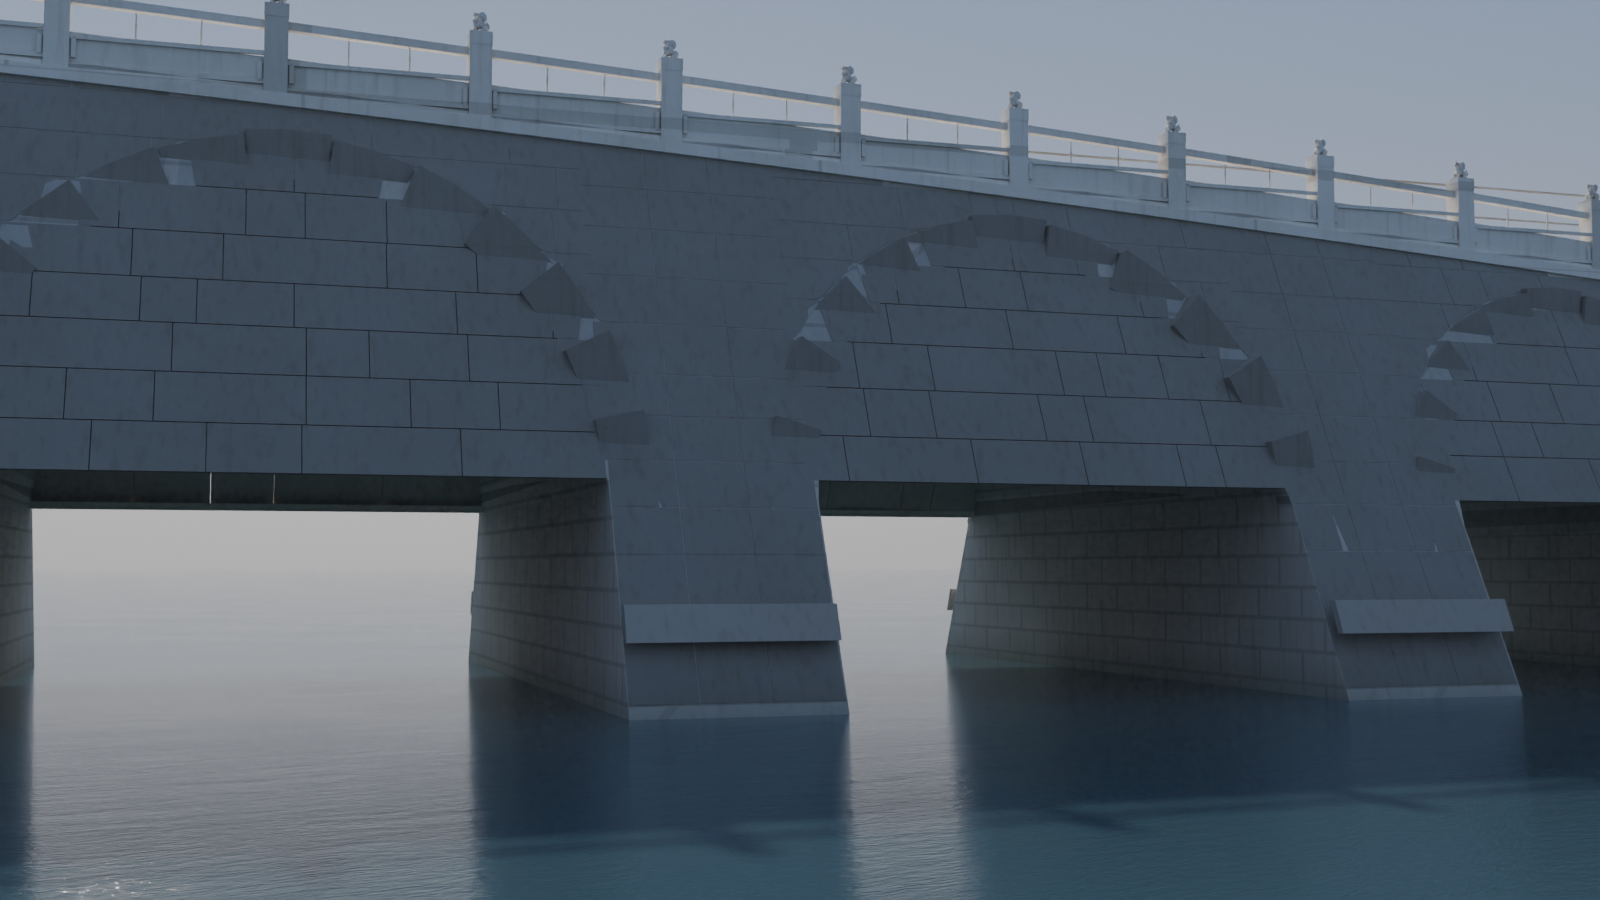
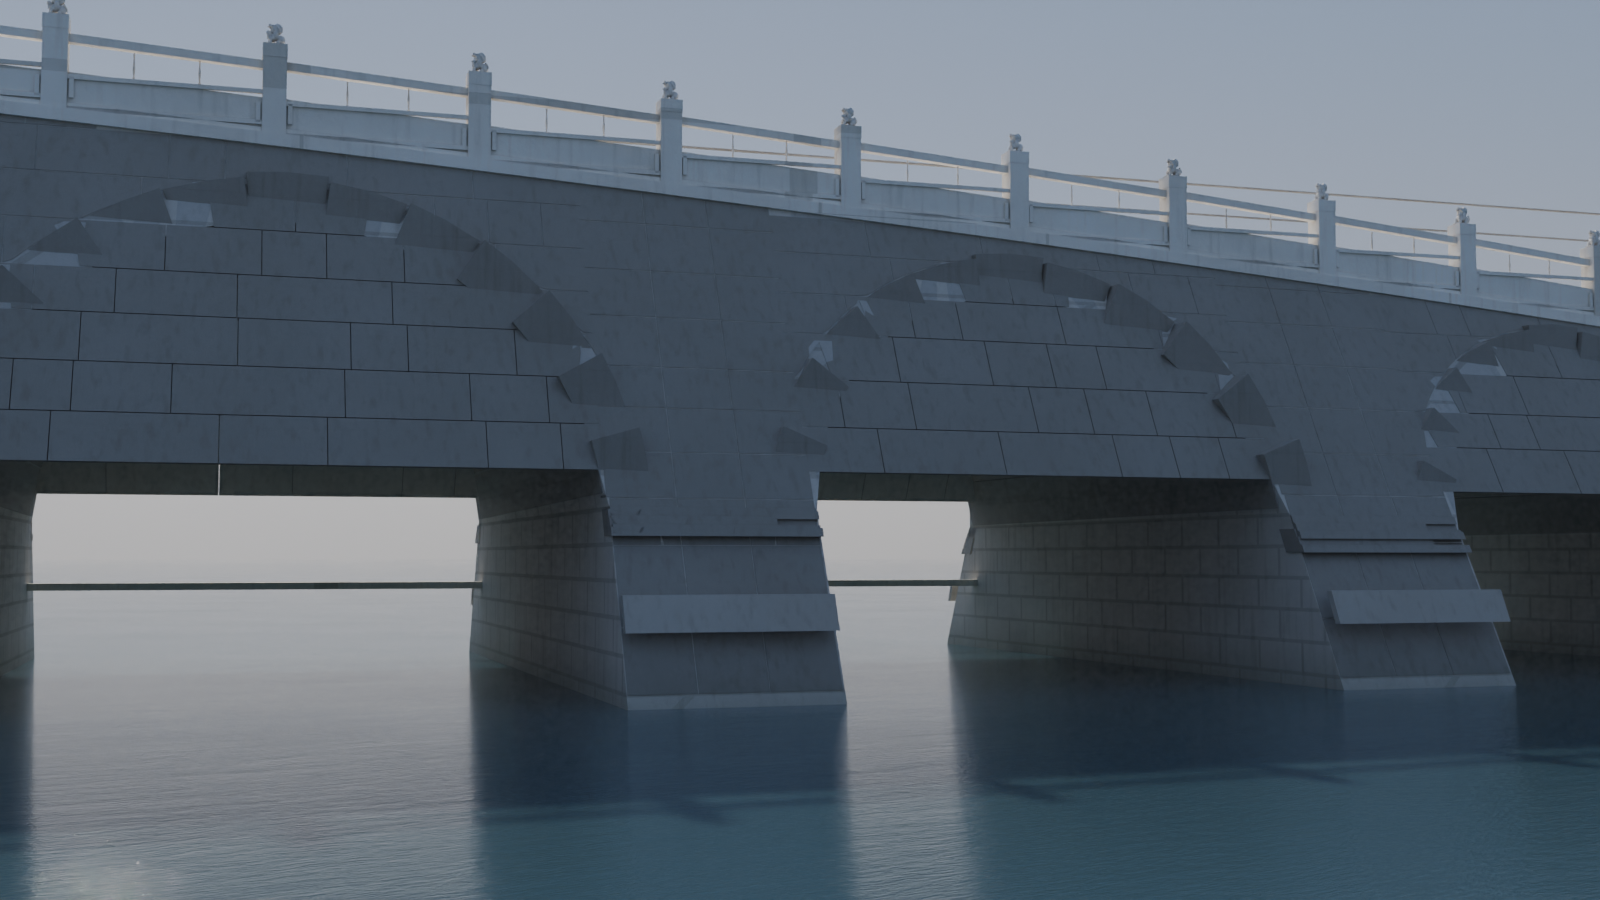
feat(e30): 十审9.12存档+impost v3(十审E2刀)——新高程基准正式取代M12成P0基线; impost两轮收缩(0.30/3->0.17/4分块仍悬浮->0.10/3浅挑厚线脚踢面主导)贴墙成型, 皮内沿墩列线分块错半块与墙石同砌层语法; 末孔E3刀按裁决等M20正射证据不盲调; L2/32/312/64全绿

diff --git a/e30_shikongqiao_video/3d/masonry.py b/e30_shikongqiao_video/3d/masonry.py
@@ -79,9 +79,15 @@ END_ZONE = 72.0            # |x|>72 端区走旧逻辑(桥头 massing 冻结)
 ARC_STEP = 0.10            # 贴拱切块沿弧采样步长 m
 # ── [M19] 起拱线出挑 impost 线脚(冬照+2017-05-20 特写: 每孔拱脚、墩顶之上阶梯
 #    出挑承托层 2-3 阶, 出挑共 ~0.3m, 券环落于其上; M19 brief 拟合目标 高≈0.35) ──
-IMPOST_H = 0.35            # 线脚总高(3 阶, 每阶 ~0.117)
-IMPOST_PROJ = 0.30         # 底阶总出挑(自墙面), 向上每阶递减 0.10
+# [十审E2] GPT: 原 3 阶 0.35/0.30 读成"独立承台牛腿"(出挑深/阶厚/间距大,
+# 远看横向白带)。改: 4 皮逐级微挑(总高 0.28, 底阶出挑 0.17), 且每皮沿墩列线
+# 分块(与墙石同一砌层语法), 不再整幅环带 extrusion。
+# [十审E2b] 0.17/4阶仍读"悬浮板"(踏步深>>踢面高, 底影=缝感)。真照判读:
+# 浅挑厚线脚, 总出挑<=0.10, 3 阶每阶 ~0.10 高 x ~0.033 挑(踢面主导)。
+IMPOST_H = 0.30
+IMPOST_PROJ = 0.10
 IMPOST_STEPS = 3
+IMPOST_BLOCK_W = 1.05      # 皮内分块名义宽(m)
 IMPOST_MIN_Z = 0.02        # 没水阶不建(端孔起拱 0.26 近水, 阶没入水下部分省略)
 
 
@@ -767,12 +773,25 @@ def build_impost(bm):
                 zb0 = max(z0, IMPOST_MIN_Z)
                 if z1 - zb0 < 0.02:
                     continue
-                for side in (1, -1):
-                    if _stone(bm, x0, x1, zb0, z1, side,
-                              proud=STONE_PROUD + proj,
-                              back=STONE_BACK + proj,
-                              uv_x0=x0, uv_z0=zb0):
-                        n += 1
+                # [十审E2] 皮内分块: 沿 x 按名义宽切段, 奇偶皮错半块(与墩身
+                # 砧石同一错缝语法), 块界=真缝 -> 线脚读成砌层不是环带
+                segs = []
+                off = (st % 2) * IMPOST_BLOCK_W * 0.5
+                xs = x0 + off
+                while xs < x1:
+                    xe = min(xs + IMPOST_BLOCK_W, x1)
+                    if xe - xs >= 0.25:
+                        segs.append((xs, xe))
+                    xs = xe
+                if not segs:
+                    segs = [(x0, x1)]
+                for (sx0, sx1) in segs:
+                    for side in (1, -1):
+                        if _stone(bm, sx0, sx1, zb0, z1, side,
+                                  proud=STONE_PROUD + proj,
+                                  back=STONE_BACK + proj,
+                                  uv_x0=sx0, uv_z0=zb0):
+                            n += 1
     return n
 
 
